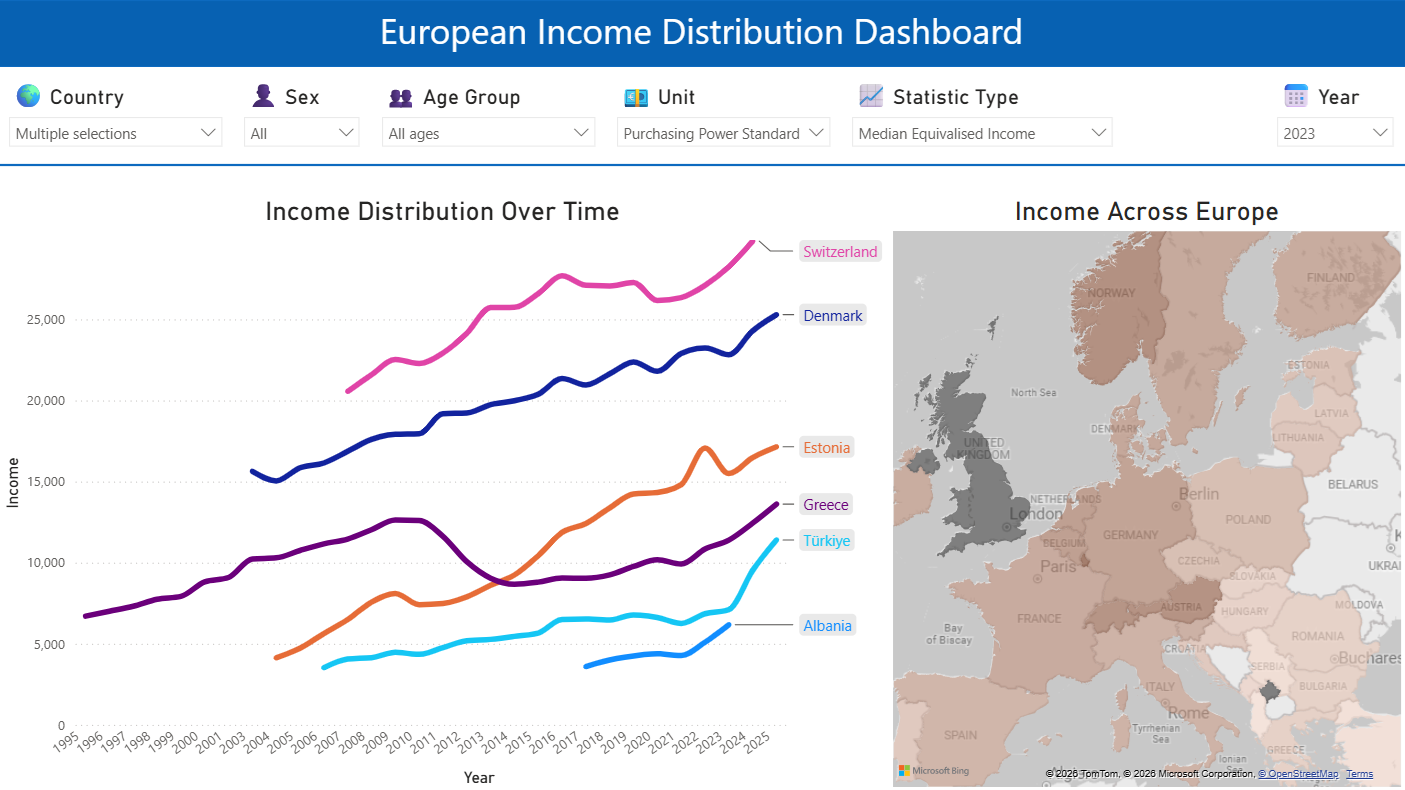
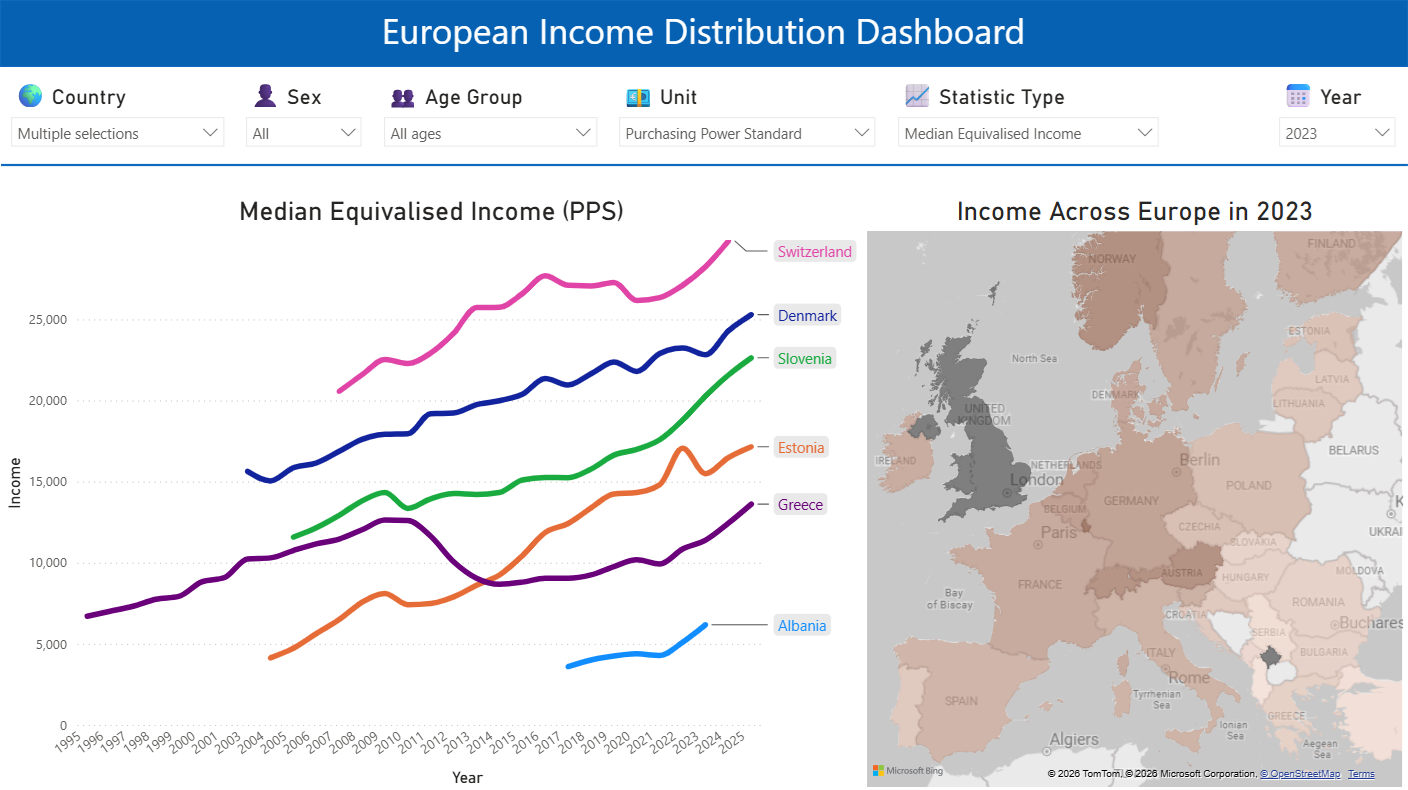
Updated dashboard preview in README.md

diff --git a/README.md b/README.md
@@ -142,6 +142,7 @@ dim_unit
 ├── dashboard/
 │   └── Eurostat_Income_Distribution_Dashboard.pbix
 │
+├── LICENSE
 └── README.md
 ```
 
@@ -151,12 +152,11 @@ dim_unit
 
 - Python
 - Pandas
-- PostgreSQL
 - SQLAlchemy
+- PostgreSQL
 - SQL
 - Power BI
-- Git
-- GitHub
+- Git / GitHub
 
 ---
 
@@ -181,3 +181,5 @@ dim_unit
 ## Author
 
 George Aliquis
+
+---
